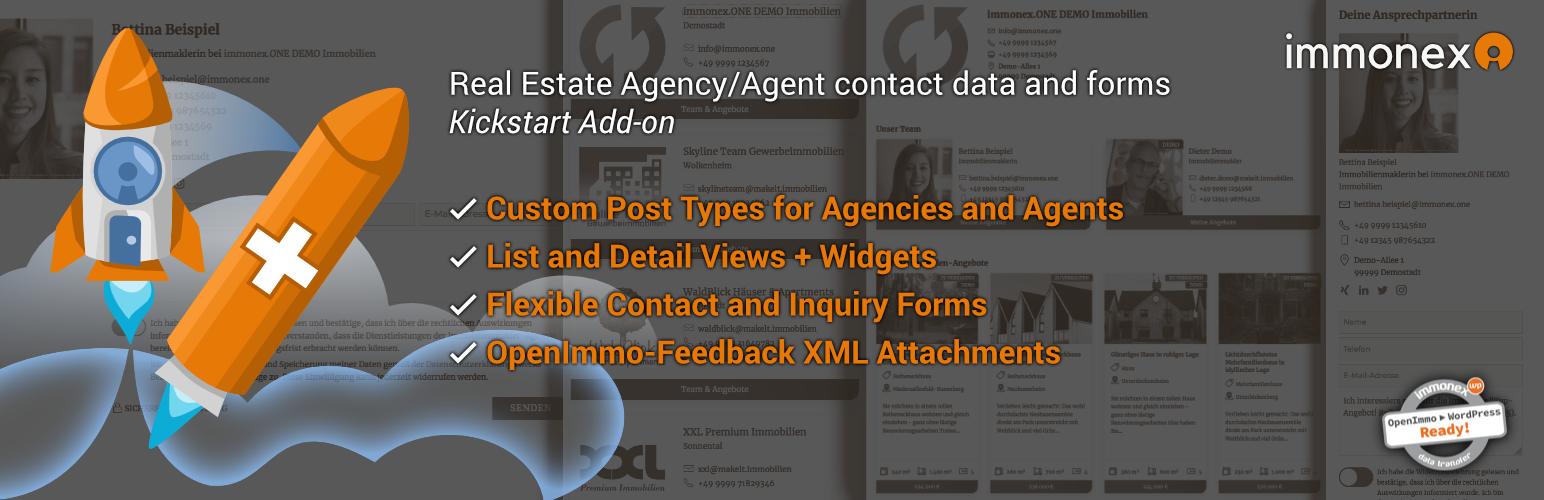
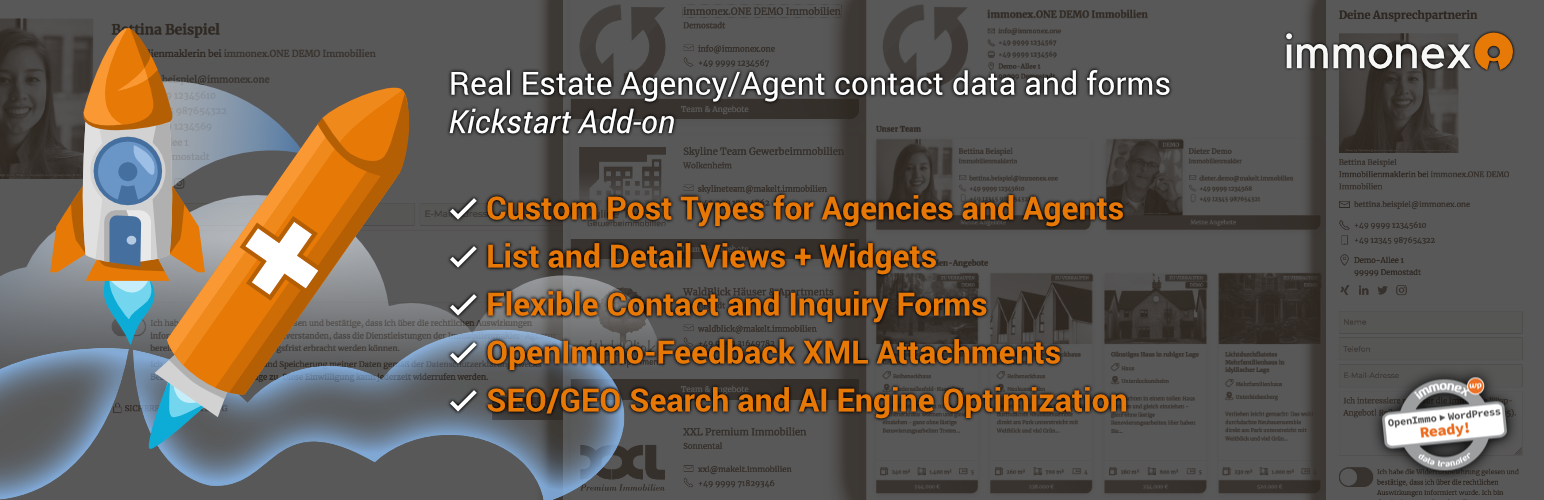
release: 1.7.3
- wrap schema data in additional span container
 - remove method return types to restore PHP 7.4 compatibility
 - update dependencies and build config
 - update user/dev documentation
 - bump stable version to 1.7.3

Changed region(s): [[0.2798, 0.75, 0.7461, 0.84]]

diff --git a/src/includes/class-base-schema.php b/src/includes/class-base-schema.php
@@ -98,7 +98,7 @@ class Base_Schema {
 	 *
 	 * @return mixed[]|string Schema graph.
 	 */
-	public function get_detail_page_graph( $as_script_block = false ): array|string {
+	public function get_detail_page_graph( $as_script_block = false ) {
 		if ( empty( $this->post ) ) {
 			return $as_script_block ? '' : [];
 		}
@@ -144,10 +144,12 @@ class Base_Schema {
 	 * @param mixed[] $schema_data Schema data.
 	 * @param bool    $add_info    Whether to add generator info as HTML comment
 	 *                             (optional, false by default).
+	 * @param bool    $add_wrap    Whether to add a wrapper div element
+	 *                             (optional, true by default).
 	 *
 	 * @return Script block with JSON-LD data.
 	 */
-	public function get_json_ld_script_block( $schema_data, $add_info = false ): string {
+	public function get_json_ld_script_block( $schema_data, $add_info = false, $add_wrap = true ): string {
 		$schema_data = array_merge(
 			[ '@context' => 'https://schema.org' ],
 			$schema_data
@@ -156,6 +158,10 @@ class Base_Schema {
 		$script_block  = '<script type="application/ld+json">' . PHP_EOL;
 		$script_block .= wp_json_encode( $schema_data, JSON_UNESCAPED_SLASHES | JSON_PRETTY_PRINT );
 		$script_block .= PHP_EOL . '</script>' . PHP_EOL;
+
+		if ( $add_wrap ) {
+			$script_block = '<span class="inx-script-block">' . PHP_EOL . $script_block . PHP_EOL . '</span>';
+		}
 
 		if ( $add_info ) {
 			$info = wp_sprintf(

diff --git a/src/includes/class-structured-data-hooks.php b/src/includes/class-structured-data-hooks.php
@@ -87,7 +87,7 @@ class Structured_Data_Hooks {
 	 * @return mixed[]|string Main agency/agent schema entity element of the given type
 	 *                        as raw data array or "ready-rendered" JS block.
 	 */
-	public function get_schema_data( $schema_data, $args ): array|string {
+	public function get_schema_data( $schema_data, $args ) {
 		$entity_type = ! empty( $args['entity_type'] ) && in_array( $args['entity_type'], [ 'agency', 'agent' ], true ) ?
 			$args['entity_type'] : 'agency';
 		$entity_id   = ! empty( $args['entity_id'] ) ? $args['entity_id'] : 0;
@@ -113,7 +113,12 @@ class Structured_Data_Hooks {
 		$entity_schema = new $entity_class( $this->config, $this->utils );
 		$entity_schema->set_post_id( $entity_id );
 
-		$this->cache[ $entity_type ][ $scope ][ $entity_id ] = $entity_schema->get_main_entity_element( $scope );
+		$main_entity_element = $entity_schema->get_main_entity_element( $scope );
+		if ( empty( $main_entity_element ) ) {
+			return ! empty( $args['as_script_block'] ) ? '' : [];
+		}
+
+		$this->cache[ $entity_type ][ $scope ][ $entity_id ] = $main_entity_element;
 
 		return empty( $args['as_script_block'] ) ?
 			$this->cache[ $entity_type ][ $scope ][ $entity_id ]['raw'] :

diff --git a/src/includes/class-kickstart-team.php b/src/includes/class-kickstart-team.php
@@ -17,8 +17,7 @@ class Kickstart_Team extends \immonex\WordPressFreePluginCore\V2_5_0\Base {
 	const ADDON_TAB_ID               = 'addon_team';
 	const PLUGIN_PREFIX              = 'inx_team_';
 	const PUBLIC_PREFIX              = 'inx-team-';
-	const TEXTDOMAIN                 = 'immonex-kickstart-team';
-	const PLUGIN_VERSION             = '1.7.0';
+	const PLUGIN_VERSION             = '1.7.3';
 	const PLUGIN_HOME_URL            = 'https://de.wordpress.org/plugins/immonex-kickstart-team/';
 	const PLUGIN_DOC_URLS            = array(
 		'de' => 'https://docs.immonex.de/kickstart-team/',
@@ -93,7 +92,7 @@ class Kickstart_Team extends \immonex\WordPressFreePluginCore\V2_5_0\Base {
 	public function __construct( $plugin_slug ) {
 		$this->bootstrap_data['plugin'] = $this;
 
-		parent::__construct( $plugin_slug, self::TEXTDOMAIN );
+		parent::__construct( $plugin_slug );
 
 		// Set up custom post types, taxonomies and backend menus.
 		new WP_Bootstrap( $this->bootstrap_data, $this );

diff --git a/src/immonex-kickstart-team.php b/src/immonex-kickstart-team.php
@@ -3,7 +3,7 @@
  * Plugin Name:       immonex Kickstart Team
  * Plugin URI:        https://wordpress.org/plugins/immonex-kickstart-team/
  * Description:       immonex Kickstart add-on for handling, linking and embedding OpenImmo-XML-based real estate agent/agency information and contact forms
- * Version:           1.7.0
+ * Version:           1.7.3
  * Text Domain:       immonex-kickstart-team
  * Domain Path:       /languages
  * Requires at least: 5.5

diff --git a/doc/index.md b/doc/index.md
@@ -3,7 +3,7 @@
 
 # Über dieses Plugin <!-- {docsify-ignore-all} -->
 
-**immonex Kickstart Team** ist ein *Add-on-Plugin*, das **WordPress-Immobilien-Websites** auf Basis von [immonex Kickstart](https://de.wordpress.org/plugins/immonex-kickstart/)<sup>1</sup> um folgende Funktionen und Inhalte erweitert:
+[immonex Kickstart Team](https://de.wordpress.org/plugins/immonex-kickstart-team/) ist ein *Add-on-Plugin*, das **WordPress-Immobilien-Websites** auf Basis von [immonex Kickstart](https://de.wordpress.org/plugins/immonex-kickstart/)<sup>1</sup> um folgende Funktionen und Inhalte erweitert:
 
 - [benutzerdefinierte Beitragsarten](beitragsarten) (*Custom Post Types*) inkl. passenden Archiv- und Detailseiten
   - **Immobilien-Agenturen** (Maklerbüros)
@@ -13,8 +13,10 @@
 - einheitliches **Mail-Kontaktformular** mit Spamschutz und OpenImmo-Feedback-Anhängen bei objektbezogenen Anfragen
 - Versand von HTML-Mails auf Basis von [Twig-Templates](https://twig.symfony.com/)
 - **Shortcodes** für die flexible Einbindung von Listen- und Detailansichten
-- direkt einsatzbereites, responsives Template-Set ("[Skin](anpassung-erweiterung/skins)")
+- direkt einsatzbereites, responsives Template-Set (*[Skin](anpassung-erweiterung/skins)*)
 - Möglichkeit der update-sicheren Anpassung vorhandener oder Ergänzung eigener Skins im (Child-)Theme-Ordner
+- **Strukturierte Daten/Rich Snippets** für die Suchmaschinen-, KI- und Social-Media-Optimierung ([SEO](https://de.wikipedia.org/wiki/Suchmaschinenoptimierung)/[GEO](https://en.wikipedia.org/wiki/Generative_engine_optimization))
+
 
 ## Zielgruppen dieser Dokumentation
 
@@ -24,13 +26,13 @@
 
 ## Lizenz & Entwicklung
 
-immonex Kickstart Team ist **freie, quelloffene Software** (Open Source), die unter der GNU GPL 2.0 (oder später) lizenziert ist.
+immonex Kickstart Team ist als **freie, quelloffene Software** (Open Source) im offiziellen [WP-Plugin-Verzeichnis](https://de.wordpress.org/plugins/immonex-kickstart-team/) verfügbar und unter der GNU GPL 2.0 (oder später) lizenziert.
 
 Entwicklung und Support: [GitHub-Repository](https://github.com/immonex/kickstart-team)
 
 ---
 
-<sup>1</sup> Das Plugin immonex Kickstart stellt - neben einem Framework für Erweiterungen - Basiskomponenten für die Einbindung von Immobilien-Angeboten bereit, die per *OpenImmo-Schnittstelle* importiert werden.
+<sup>1</sup> Das WP-Immobilien-Plugin [immonex Kickstart](https://de.wordpress.org/plugins/immonex-kickstart/) stellt - neben einem Framework für Erweiterungen - Basiskomponenten für die Einbindung von Immobilien-Angeboten bereit, die per *OpenImmo-Schnittstelle* importiert werden.
 
 <sup>2</sup> [OpenImmo-XML](http://openimmo.de/) ist der De-facto-Standard für den Austausch von Immobiliendaten in den deutschsprachigen Ländern und wird hier von allen gängigen Softwarelösungen und Portalen für Immobilienmakler/innen durch entsprechende Import/Export-Schnittstellen unterstützt.
 
